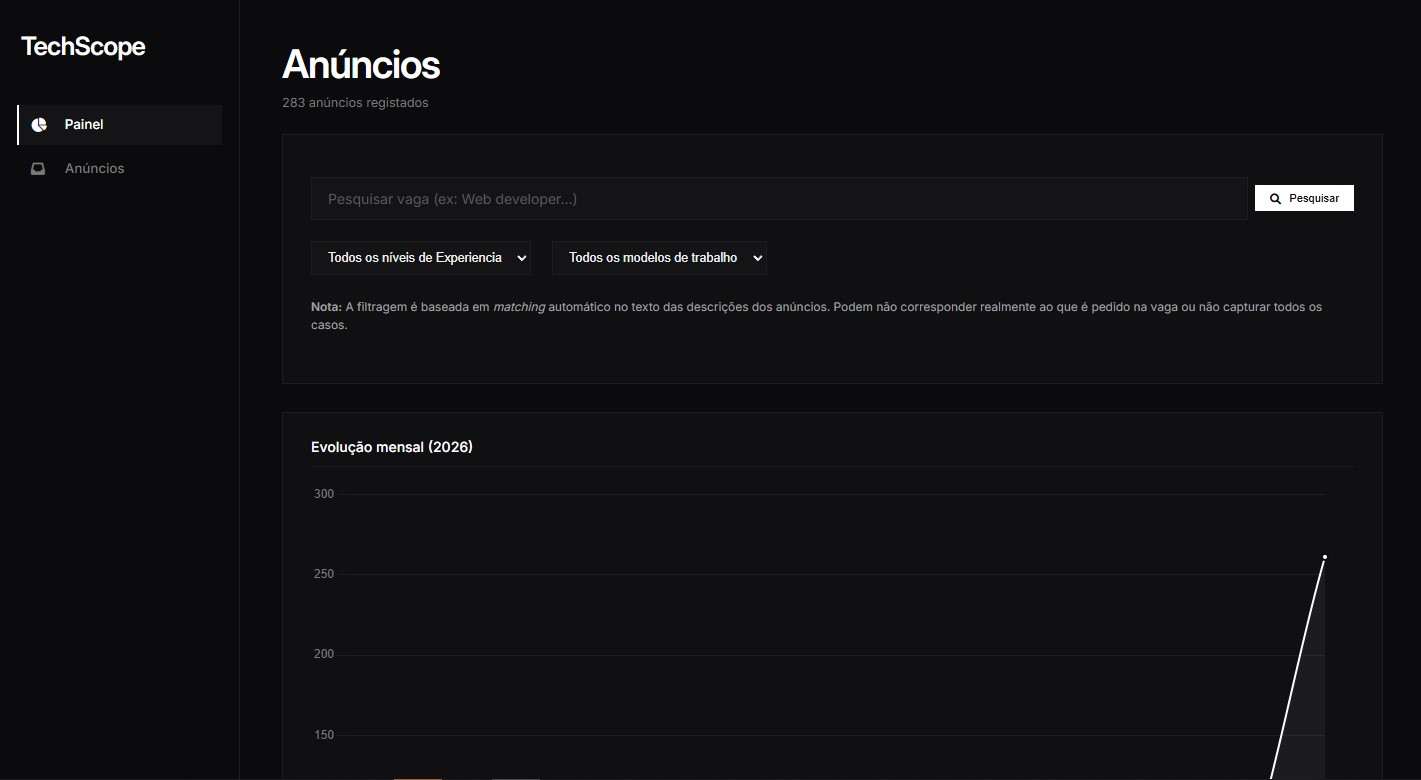
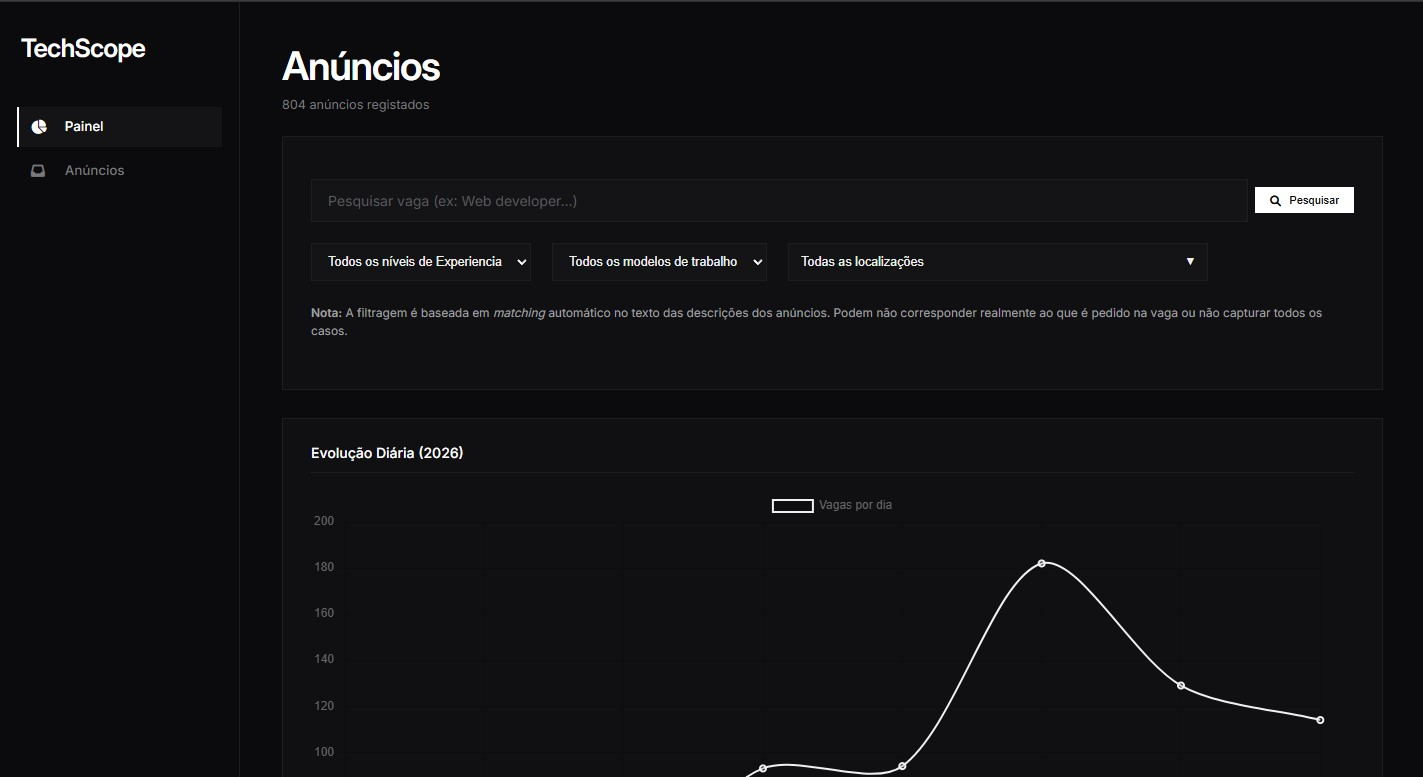
melhorias gerias na app, incluindo paginação na em detail.cshtml

diff --git a/web-app/wwwroot/css/style.css b/web-app/wwwroot/css/style.css
@@ -13,21 +13,39 @@ html {
 }
 
 body {
-  font-family: 'Inter', -apple-system, BlinkMacSystemFont, sans-serif;
+  font-family:
+    "Inter",
+    -apple-system,
+    BlinkMacSystemFont,
+    sans-serif;
   background: #0b0b0d;
   color: #f0f0f0;
   line-height: 1.5;
 }
 
 /* tipografia */
-h1, h2, h3, h4, .display {
+h1,
+h2,
+h3,
+h4,
+.display {
   font-weight: 500;
   letter-spacing: -0.025em;
   color: #ffffff;
 }
-h1 { font-size: 2.8rem; font-weight: 600; letter-spacing: -0.03em; }
-h2 { font-size: 2rem; font-weight: 500; }
-h3 { font-size: 1.25rem; font-weight: 500; }
+h1 {
+  font-size: 2.8rem;
+  font-weight: 600;
+  letter-spacing: -0.03em;
+}
+h2 {
+  font-size: 2rem;
+  font-weight: 500;
+}
+h3 {
+  font-size: 1.25rem;
+  font-weight: 500;
+}
 
 .text-muted {
   color: #7a7a7e;
@@ -94,13 +112,17 @@ h3 { font-size: 1.25rem; font-weight: 500; }
   color: #ffffff;
   border-left-color: #ffffff;
 }
-.nav-item.active i { color: #ffffff; }
+.nav-item.active i {
+  color: #ffffff;
+}
 
 .nav-item:hover {
   background: #141416;
   color: #ffffff;
 }
-.nav-item:hover i { color: #ffffff; }
+.nav-item:hover i {
+  color: #ffffff;
+}
 
 /* ============================================
    MAIN CONTENT
@@ -147,12 +169,12 @@ h3 { font-size: 1.25rem; font-weight: 500; }
   /* gap: 1px; */
   /* background: #1e1e20; */
   margin-bottom: 2.5rem;
-  border:solid,  0.1rem, #1e1e20 ; 
+  border: solid, 0.1rem, #1e1e20;
 }
 
 .stat-card {
   /* background: #141416; */
-  border:solid,  0.1rem, #1e1e20 ; 
+  border: solid, 0.1rem, #1e1e20;
   padding: 1.8rem 1.5rem;
   text-align: left;
 }
@@ -237,7 +259,7 @@ td {
   font-size: 0.9rem;
   cursor: pointer;
   transition: all 0.1s ease;
-  text-decoration: none
+  text-decoration: none;
 }
 .btn:hover {
   background: #e8e8e8;
@@ -276,7 +298,7 @@ td {
   border: 1px solid #1e1e20;
   color: #f0f0f0;
   font-size: 1rem;
-  font-family: 'Inter', sans-serif;
+  font-family: "Inter", sans-serif;
   transition: border 0.1s;
 }
 .search-input:focus {
@@ -288,84 +310,84 @@ td {
 }
 
 .location-dropdown {
-    position: relative;
-    width: 30rem;
+  position: relative;
+  width: 30rem;
 }
 
 .location-dropdown-button {
-    width: 100%;
-    height: 38px;
-    padding: 8px 12px;
+  width: 100%;
+  height: 38px;
+  padding: 8px 12px;
 
-    display: flex;
-    align-items: center;
-    justify-content: space-between;
+  display: flex;
+  align-items: center;
+  justify-content: space-between;
 
-    background-color: #141416;
-    color: #f0f0f0;
+  background-color: #141416;
+  color: #f0f0f0;
 
-    border: 1px solid #1e1e20;
-    border-radius: 0;
+  border: 1px solid #1e1e20;
+  border-radius: 0;
 
-    font-size: 0.9rem;
-    cursor: pointer;
+  font-size: 0.9rem;
+  cursor: pointer;
 
-    text-align: left;
+  text-align: left;
 }
 
 .location-dropdown-button:hover {
-    border-color: #333337;
+  border-color: #333337;
 }
 
 .location-dropdown-arrow {
-    font-size: 0.7rem;
-    transition: transform 0.2s ease;
+  font-size: 0.7rem;
+  transition: transform 0.2s ease;
 }
 
 .location-dropdown.open .location-dropdown-arrow {
-    transform: rotate(180deg);
+  transform: rotate(180deg);
 }
 
 .location-dropdown-menu {
-    display: none;
+  display: none;
 
-    position: absolute;
-    top: calc(100% + 2px);
-    left: 0;
-    right: 0;
+  position: absolute;
+  top: calc(100% + 2px);
+  left: 0;
+  right: 0;
 
-    max-height: 200px;
-    overflow-y: auto;
+  max-height: 200px;
+  overflow-y: auto;
 
-    background-color: #141416;
-    border: 1px solid #1e1e20;
+  background-color: #141416;
+  border: 1px solid #1e1e20;
 
-    z-index: 1000;
+  z-index: 1000;
 }
 
 .location-dropdown.open .location-dropdown-menu {
-    display: block;
+  display: block;
 }
 
 .location-option {
-    display: flex;
-    align-items: center;
-    gap: 8px;
+  display: flex;
+  align-items: center;
+  gap: 8px;
 
-    padding: 9px 12px;
+  padding: 9px 12px;
 
-    color: #f0f0f0;
-    font-size: 0.9rem;
+  color: #f0f0f0;
+  font-size: 0.9rem;
 
-    cursor: pointer;
+  cursor: pointer;
 }
 
 .location-option:hover {
-    background-color: #1e1e20;
+  background-color: #1e1e20;
 }
 
 .location-option input {
-    cursor: pointer;
+  cursor: pointer;
 }
 /* ============================================
    PAGINATION
@@ -410,12 +432,22 @@ td {
   flex-direction: column;
   height: auto; /* sem altura fixa */
 }
+/* Tamanho reduzido do gráfico no detalhe da tecnologia */
+.chart-sm {
+  margin-left: 25%;
+  height: 250px; /* altura fixa – ajuste conforme precisar */
+  min-height: 200px; /* garante que não fique muito pequeno em telas grandes */
+}
+
+/* Limita a altura do gráfico sem distorcer a proporção */
+.chart-max-height {
+  max-height: 250px; /* ajuste este valor conforme desejar */
+}
 
 .chart-doughnut-wrapper .chart-container {
   flex: 1;
   min-height: 200px; /* apenas para garantir visibilidade, mas cresce com o conteúdo */
 }
-
 
 /* ============================================
    UTILITY GRID
@@ -464,4 +496,3 @@ td {
     min-width: 140px;
   }
 }
-

diff --git a/web-app/Controllers/TechnologyController.cs b/web-app/Controllers/TechnologyController.cs
@@ -16,7 +16,7 @@ public class TechnologyController : Controller
     }
 
     // GET: /technologies/{keyword}
-    public async Task<IActionResult> Detail(string keyword)
+    public async Task<IActionResult> Detail(string keyword, int pageNumber = 1, int pageSize = 10)
     {
         if (string.IsNullOrWhiteSpace(keyword))
             return BadRequest();
@@ -102,7 +102,7 @@ public class TechnologyController : Controller
                 JobCount = g.Select(jk => jk.JobId).Distinct().Count()
             })
             .OrderByDescending(c => c.JobCount)
-            .Take(10)
+            .Take(5) //top 5
             .ToListAsync();
 
         // Anúncios recentes relacionados
@@ -119,7 +119,8 @@ public class TechnologyController : Controller
             })
             .Distinct()
             .OrderByDescending(j => j.DatePosted)
-            .Take(20)
+            .Skip((pageNumber - 1) * pageSize)
+            .Take(pageSize)
             .ToListAsync();
 
         var model = new TechnologyDetailViewModel
@@ -130,7 +131,9 @@ public class TechnologyController : Controller
             RelatedTechnologies = relatedTechnologies,
             RelatedTechChart = relatedTechChart,
             TopCompanies = topCompanies,
-            RecentJobs = recentJobs
+            RecentJobs = recentJobs,
+            PageSize = pageSize,
+            PageNumber = pageNumber,
         };
 
         return View(model);

diff --git a/web-app/Controllers/DashboardController.cs b/web-app/Controllers/DashboardController.cs
@@ -67,18 +67,22 @@ public class DashboardController : Controller
         var tecnologiasSelecionadas = new[]
         {
             ".net",
-            "react native",
-            "sql",
+            "nodejs",
+            "postgresql",
+            "mongodb",
             "c#",
             "java",
+            "spring",
             "javascript",
             "typescript",
             "angular",
             "react",
-            "nodejs",
             "python",
             "laravel",
             "php",
+            "aws",
+            "azure",
+            "docker",
         };
         var quantityTech = _context.JobKeywords // serve para o grafico de tecnologias
             .Where(jk =>

diff --git a/data-pipeline/scrapers/keyword_extractor.py b/data-pipeline/scrapers/keyword_extractor.py
@@ -56,6 +56,7 @@ COMMON_TECH_PATTERNS = [
     r'\bblazor\b',                 # blazor
     r'\.net[\s-]framework\b',     # .net framework
     r'\b(php)\b',
+    r'\b(laravel)\b',
     r'\b(ruby|ruby[\s-]?on[\s-]?rails|rails)\b',
     r'\b(golang|go)\b',
     r'\b(rust)\b',
@@ -216,8 +217,8 @@ TECH_ALIASES: dict[str, str] = {
     'asp.net core': '.net',
     'aspnet': '.net',
     'dotnet': '.net',
-    'c#': '.net',
-    'csharp': '.net',
+    'c#': 'c#',
+    'csharp': 'c#',
     'blazor': '.net',
     'entity framework': '.net',
 

diff --git a/web-app/ViewModels/TechnologyViewModel.cs b/web-app/ViewModels/TechnologyViewModel.cs
@@ -11,6 +11,10 @@ public class TechnologyDetailViewModel
     public List<RelatedTechChartData> RelatedTechChart { get; set; } = new();
     public List<CompanyInfo> TopCompanies { get; set; } = new();
     public List<RecentJobInfo> RecentJobs { get; set; } = new();
+    public int PageNumber { get; set; }
+    public int PageSize { get; set; }
+    public int TotalPages => (int)Math.Ceiling((double)TotalJobs / PageSize);
+
 }
 
 public class MonthlyTrend

diff --git a/web-app/Controllers/JobsController.cs b/web-app/Controllers/JobsController.cs
@@ -68,7 +68,7 @@ public class JobsController : Controller
         {
             var term = searchString.Trim();
             
-            // query base procura por titulos que contenham o termo
+            // query base procura por titulos que contenham o termo 
             var query = _context.Jobs.AsQueryable();
             query = query.Where(j => j.Title != null && j.Title.ToUpper().Contains(term.ToUpper()));
 
